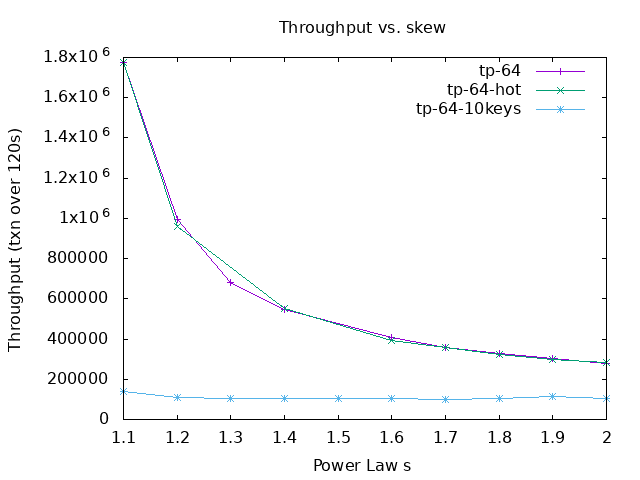
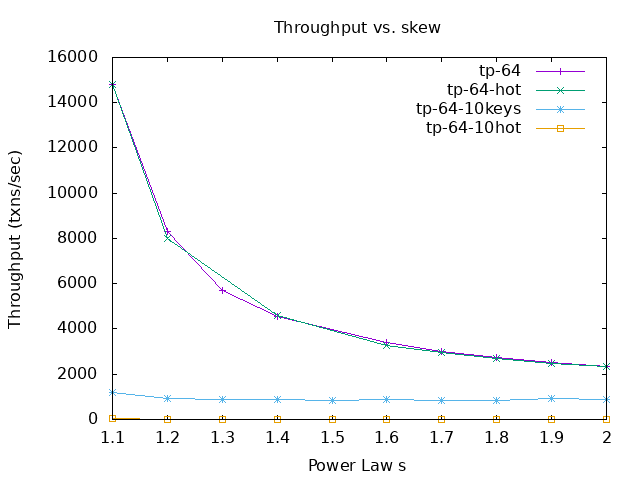
Sorted keys, new graphs

diff --git a/pkg/workload/kv/kv.go b/pkg/workload/kv/kv.go
@@ -19,6 +19,7 @@ import (
 	"hash"
 	"math"
 	"math/rand"
+	"sort"
 	"strconv"
 	"strings"
 	"sync/atomic"
@@ -291,16 +292,37 @@ type kvOp struct {
 	mcp		*workload.MultiConnPool
 }
 
+type byInt []int64
+
+func (s byInt) Len() int {
+	return len(s)
+}
+
+func (s byInt) Swap(i, j int) {
+	s[i], s[j] = s[j], s[i]
+}
+
+func (s byInt) Less (i, j int) bool {
+	return s[i] < s[j]
+}
+
+
 func (o *kvOp) run(ctx context.Context) error {
 	statementProbability := o.g.rand().Intn(100) // Determines what statement is executed.
 
 	if statementProbability < o.config.readPercent {
+		// jenndebug sort the keys first
+		argsInt := make([]int64, o.config.batchSize)
+		for i := 0; i < o.config.batchSize; i++ {
+			argsInt[i] = o.g.readKey()
+		}
+		sort.Sort(byInt(argsInt))
 		args := make([]interface{}, o.config.batchSize)
 		for i := 0; i < o.config.batchSize; i++ {
-			args[i] = o.g.readKey()
+			args[i] = argsInt[i]
 		}
-		start := timeutil.Now()
 
+		start := timeutil.Now()
 		tx, err := o.mcp.Get().BeginEx(ctx, &pgx.TxOptions{
 						IsoLevel: pgx.Serializable,
 						AccessMode: pgx.ReadOnly,})
@@ -341,10 +363,17 @@ func (o *kvOp) run(ctx context.Context) error {
 		return err
 	}
 	const argCount = 2
+
+	// jenndebug sort the keys first
+	argsInt := make([]int64, o.config.batchSize)
+	for i := 0; i < o.config.batchSize; i++ {
+		argsInt[i] = o.g.writeKey()
+	}
+	sort.Sort(byInt(argsInt))
 	args := make([]interface{}, argCount*o.config.batchSize)
 	for i := 0; i < o.config.batchSize; i++ {
 		j := i * argCount
-		args[j+0] = o.g.writeKey()
+		args[j+0] = argsInt[i]
 		args[j+1] = randomBlock(o.config, o.g.rand())
 	} //jenndebug
 	/*if rand.Intn(2) == 0 {

diff --git a/experiments/driver.py b/experiments/driver.py
@@ -12,9 +12,7 @@ LOGS_DIR = os.path.join(BASE_DIR, "logs")
 OUT_DIR = os.path.join(LOGS_DIR, "kv-skew")
 # SKEWS = [1.000001, 1.00001, 1.0001, 1.001, 1.01, 1.1, 2]
 # SKEWS = [ 1.1, 1.2, 1.3, 1.4, 1.5, 1.6, 1.7, 1.8, 1.9, 2.0]
-# SKEWS = [1.09, 1.19, 1.3, 1.4, 1.5, 1.6, 1.7, 1.8, 1.9, 2.0]
-# SKEWS = [1.1, 1.2, 1.3]
-SKEWS = [1.09, 1.201] # warmup
+SKEWS = [1.1, 1.2, 1.3, 1.4, 1.5]
 
 EXP = {
     "out_dir": OUT_DIR,
@@ -23,9 +21,9 @@ EXP = {
        	{
             "ip": "192.168.1.1",
         },
-		{
-			"ip": "192.168.1.5",
-		},
+		# {
+		# 	"ip": "192.168.1.5",
+		# },
     ],
     "hot_nodes": [],
     "warm_nodes": [
@@ -115,13 +113,13 @@ EXP = {
         "init_args": {
         },
         "run_args": {
-            "concurrency": 32,
-            "duration": 120,
+            "concurrency": 8,
+            "duration": 15,
             # "splits": 1000,
             # "drop": True,
             "read_percent": 90,
             # "n_statements_per_txn": 1,
-            "n_keys_per_statement": 1,
+            "n_keys_per_statement": 10,
             "distribution": {
                 "type": "zipf",
                 "params": {

diff --git a/experiments/lib.py b/experiments/lib.py
@@ -294,9 +294,9 @@ def warmup_cluster(config):
 	ip = nodes[0]["ip"]
 	cmd = ('echo "'
 			'alter range default configure zone using num_replicas = 1;'
-			# 'alter table kv partition by range(k) (partition hot values from (minvalue) to (3), partition warm values from (3) to (maxvalue));'
-			# "alter partition hot of table kv configure zone using constraints='\\''[+region=newyork]'\\'';"
-			# "alter partition warm of table kv configure zone using constraints='\\''[-region=newyork]'\\'';"
+			'alter table kv partition by range(k) (partition hot values from (minvalue) to (3), partition warm values from (3) to (maxvalue));'
+			"alter partition hot of table kv configure zone using constraints='\\''[+region=newyork]'\\'';"
+			"alter partition warm of table kv configure zone using constraints='\\''[-region=newyork]'\\'';"
 			'" | {0} sql --insecure --database=kv '
 			'--url="postgresql://root@{1}?sslmode=disable"').format(EXE, ip)
 	
